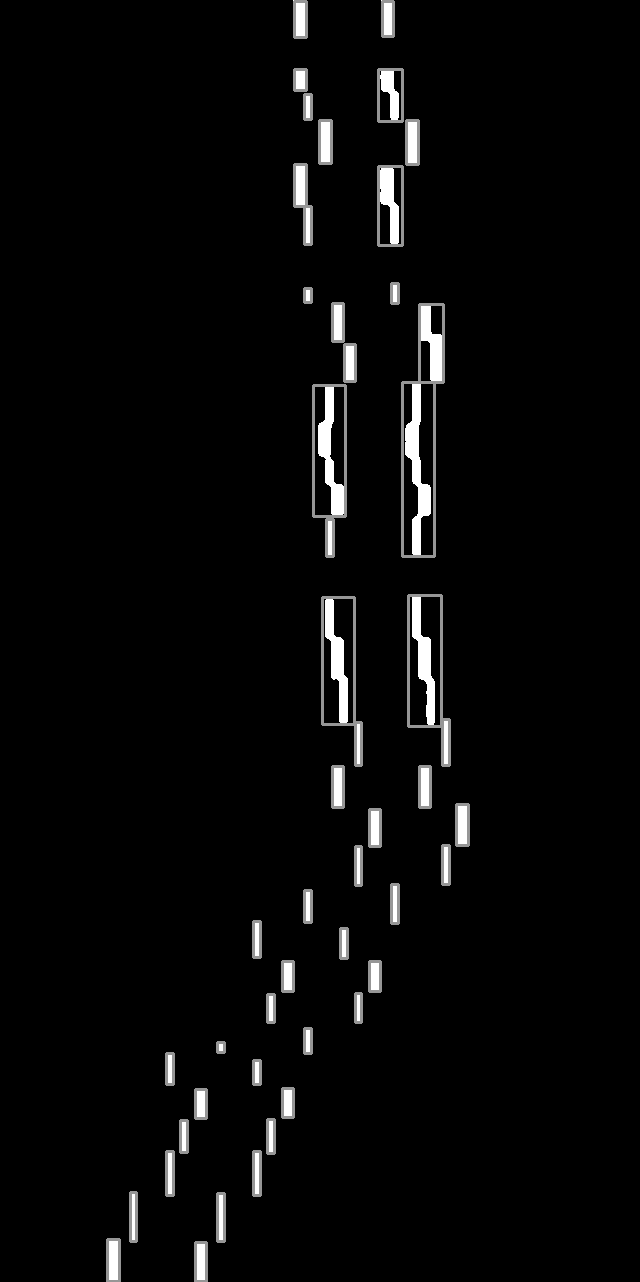
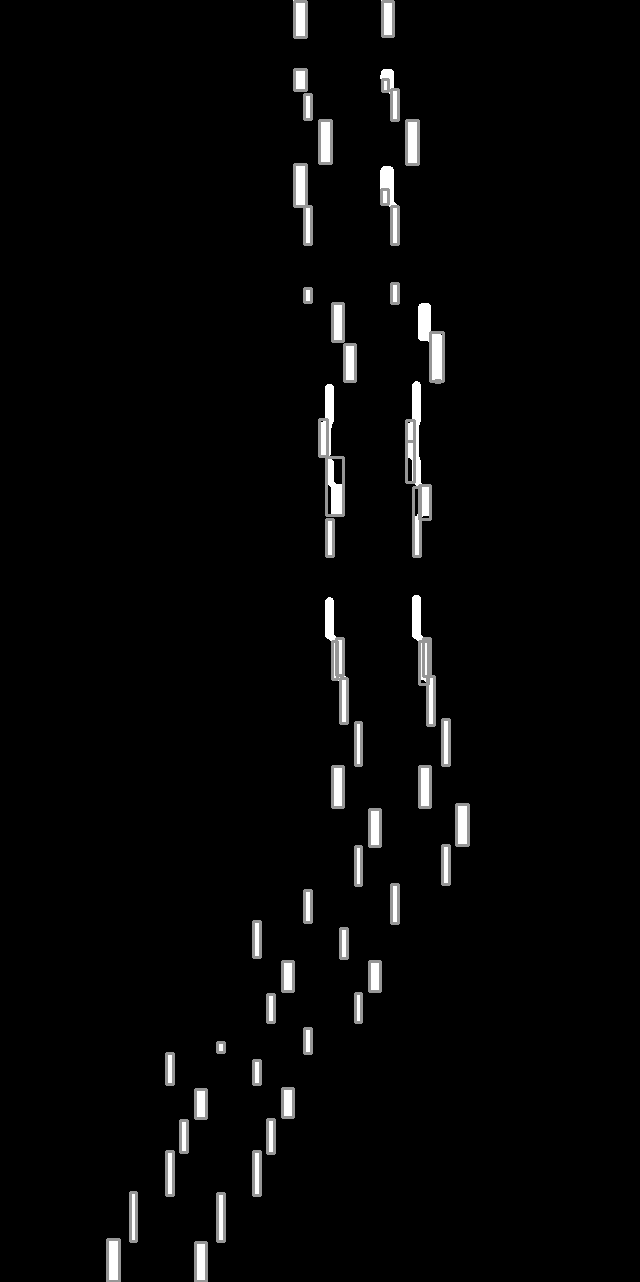
Use of convexity defect detection for merged rectangles

diff --git a/WaterfallProcess.py b/WaterfallProcess.py
@@ -4,6 +4,8 @@ import sys
 import argparse
 import mido
 from mido import Message, MidiFile, MidiTrack
+import random
+
 
 def preprocess_image(image_file):
     """
@@ -45,214 +47,89 @@ def match_area(image, rectangle, outer_rectangle=None):
         black_area = area - white_area
         return white_area, black_area
 
-# This function tries to fit multiple sub-rectangles inside the given rectangle, such that the area covered by the rectangles is at least min_cover_ratio.
-def fit_rectangles(image, rectangle, min_cover_ratio=0.95, max_rectangles=3):
-    # Divide outer_rectangle vertically into num_rectangles parts, of the same width and height
-    def initial_guess(num_rectangles, outer_rectangle):
-        x, y, w, h = outer_rectangle
-        rectangles = []
-        for i in range(num_rectangles):
-            rectangles.append([x, y + i * h // num_rectangles, w, h // num_rectangles])
-        return rectangles
+def separate_contours(image, contour, threshold=10):
+    """
+    Separates merged contours into individual convex contours.
 
-    # Move individual rectangles in the position that maximize the area covered by white pixels.
-    def optimize_position(rectangles, image, outer_rectangle, amplitude=1):
-        combined_area_white, combined_area_black = match_area(image, rectangles, outer_rectangle=rectangle)
-        combined_cover_ratio = combined_area_white / (combined_area_white + combined_area_black)
+    Args:
+    image (np.array): Binary image containing the contours.
+    contour (list): A list of points representing the contour to be separated.
+    threshold (float): Distance threshold for convexity defect points to be considered as separation points.
 
-        for i in range(len(rectangles)):
-            # Process rectangle i
-            x, y, w, h = rectangles[i]
-            position_ratios = [] # Stores the area covered by white pixels for each position, to select the best position.
-            temprect = rectangles.copy()
+    Returns:
+    list: A list of individual convex contours.
+    """
 
-            # Move the rectangle to the left.
-            # Check if the rectangle is still inside the outer rectangle.
-            if x - amplitude >= outer_rectangle[0]:
-                temprect = rectangles.copy()
-                temprect[i] = (x - amplitude, y, w, h)
-                larea_white, larea_black = match_area(image, temprect, outer_rectangle=rectangle)
-                # Avoid division by zero.
-                if larea_white + larea_black == 0:
-                    position_ratios.append(0)
-                else:
-                    position_ratios.append(larea_white / (larea_white + larea_black))
-            else:
-                position_ratios.append(0)
+    # Find convex hull
+    hull = cv2.convexHull(contour, returnPoints=False)
 
-            # Move the rectangle to the right.
-            # Check if the rectangle is still inside the outer rectangle.
-            if x + w + amplitude <= outer_rectangle[0] + outer_rectangle[2]:
-                temprect = rectangles.copy()
-                temprect[i] = (x + amplitude, y, w, h)
-                rarea_white, rarea_black = match_area(image, temprect, outer_rectangle=rectangle)
-                # Avoid division by zero.
-                if rarea_white + rarea_black == 0:
-                    position_ratios.append(0)
-                else:
-                    position_ratios.append(rarea_white / (rarea_white + rarea_black))
-            else:
-                position_ratios.append(0)
+    # Calculate convexity defects
+    defects = cv2.convexityDefects(contour, hull)
 
-            # Move the rectangle up.
-            # Check if the rectangle is still inside the outer rectangle.
-            if y - amplitude >= outer_rectangle[1]:
-                temprect = rectangles.copy()
-                temprect[i] = (x, y - amplitude, w, h)
-                uarea_white, uarea_black = match_area(image, temprect, outer_rectangle=rectangle)
-                # Avoid division by zero.
-                if uarea_white + uarea_black == 0:
-                    position_ratios.append(0)
-                else:
-                    position_ratios.append(uarea_white / (uarea_white + uarea_black))
-            else:
-                position_ratios.append(0)
+    if defects is None:
+        return [contour]
 
-            # Move the rectangle down.
-            # Check if the rectangle is still inside the outer rectangle.
-            if y + h + amplitude <= outer_rectangle[1] + outer_rectangle[3]:
-                temprect = rectangles.copy()
-                temprect[i] = (x, y + amplitude, w, h)
-                darea_white, darea_black = match_area(image, temprect, outer_rectangle=rectangle)
-                # Avoid division by zero.
-                if darea_white + darea_black == 0:
-                    position_ratios.append(0)
-                else:
-                    position_ratios.append(darea_white / (darea_white + darea_black))
-            else:
-                position_ratios.append(0)
+    separation_points = []
 
-            # Find the best position for the rectangle.
-            best_position = np.argmax(position_ratios)
-            # Compare the best position with the current position.
-            if combined_cover_ratio > position_ratios[best_position]:
-                return 
+    for i in range(defects.shape[0]):
+        s, e, f, d = defects[i, 0]
+        if d > threshold:
+            separation_points.append(f)
 
-            # Move the rectangle to the best position.
-            if best_position == 0:
-                rectangles[i] = [x - amplitude, y, w, h]
-            elif best_position == 1:
-                rectangles[i] = [x + amplitude, y, w, h]
-            elif best_position == 2:
-                rectangles[i] = [x, y - amplitude, w, h]
-            elif best_position == 3:
-                rectangles[i] = [x, y + amplitude, w, h]
+    # If no separation points are found, return the original contour
+    if len(separation_points) == 0:
+        return [contour]
 
-    # Change the size of individual rectangles to maximize the area covered by white pixels.
-    def optimize_shape(rectangles, image, outer_rectangle, amplitude=1):
-        combined_area_white, combined_area_black = match_area(image, rectangles, outer_rectangle=outer_rectangle)
-        combined_cover_ratio = combined_area_white / (combined_area_white + combined_area_black)
+    separated_contours = []
+    separation_points.append(separation_points[0])  # Close the loop
 
-        for i in range(len(rectangles)):
-            # Process rectangle i
-            x, y, w, h = rectangles[i]
-            shape_ratios = [] # Stores the area covered by white pixels for each shape, to select the best shape.
-            
+    # Create separate contours based on the separation points
+    for i in range(len(separation_points) - 1):
+        start = separation_points[i]
+        end = separation_points[i + 1]
+        separated_contour = contour[start:end]
+        separated_contours.append(separated_contour)
 
-            # Increase the width of the rectangle.
-            # Check if the rectangle is still inside the outer rectangle.
-            if x + w + amplitude <= outer_rectangle[0] + outer_rectangle[2]:
-                temprect = rectangles.copy()
-                temprect[i] = (x, y, w + amplitude, h)
-                areas_white, areas_black = match_area(image, temprect, outer_rectangle=outer_rectangle)
-                # Avoid division by zero.
-                if areas_white + areas_black == 0:
-                    shape_ratios.append(0)
-                else:
-                    shape_ratios.append(areas_white / (areas_white + areas_black))
-            else:
-                shape_ratios.append(0)
+    return separated_contours
 
-            # Decrease the width of the rectangle.
-            # Check if the rectangle still has a positive width.
-            if w - amplitude > 0:
-                temprect = rectangles.copy()
-                temprect[i] = (x, y, w - amplitude, h)
-                larea_white, larea_black = match_area(image, temprect, outer_rectangle=outer_rectangle)
-                # Avoid division by zero.
-                if larea_white + larea_black == 0:
-                    shape_ratios.append(0)
-                else:
-                    shape_ratios.append(larea_white / (larea_white + larea_black))
-            else:
-                shape_ratios.append(0)
+def subdivide_rectangle(image, contour):
+    """
+    Takes a contour that mistakook multiple keys for a single contour, and subdivides it into the correct note rectangle contours.
+    """
+    bounding_rect = cv2.boundingRect(contour)
 
-            # Increase the height of the rectangle.
-            # Check if the rectangle is still inside the outer rectangle.
-            if y + h + amplitude <= outer_rectangle[1] + outer_rectangle[3]:
-                temprect = rectangles.copy()
-                temprect[i] = (x, y, w, h + amplitude)
-                darea_white, darea_black = match_area(image, temprect, outer_rectangle=outer_rectangle)
-                # Avoid division by zero.
-                if darea_white + darea_black == 0:
-                    shape_ratios.append(0)
-                else:
-                    shape_ratios.append(darea_white / (darea_white + darea_black))
-            else:
-                shape_ratios.append(0)
+    # Use function separate_contours with different threshold values, and keep the result with the best area ratio.
+    best_ratio = 0
+    best_separated_contours = None
 
-            # Decrease the height of the rectangle.
-            # Check if the rectangle still has a positive height.
-            if h - amplitude > 0:
-                temprect = rectangles.copy()
-                temprect[i] = (x, y, w, h - amplitude)
-                uarea_white, uarea_black = match_area(image, temprect, outer_rectangle=outer_rectangle)
-                # Avoid division by zero.
-                if uarea_white + uarea_black == 0:
-                    shape_ratios.append(0)
-                else:
-                    shape_ratios.append(uarea_white / (uarea_white + uarea_black))
-            else:
-                shape_ratios.append(0)
+    for thres in range(1, 100, 1):
+        separated_contours = separate_contours(image, contour, threshold=thres)
 
-            # Find the best shape for the rectangle.
-            best_shape = np.argmax(shape_ratios)
+        # Calculate the area ratio of the separated contours
+        rectangle_list = [cv2.boundingRect(c) for c in separated_contours]
 
-            # Compare the best shape with the current shape.
-            if combined_cover_ratio > shape_ratios[best_shape]:
-                return
+        # Max white area
+        max_white_area, black_area = match_area(image, bounding_rect)
+        aw, ab = match_area(image, rectangle_list, bounding_rect)
+        area_ratio = aw / max_white_area
 
-            # Change the shape of the rectangle to the best shape.
-            if best_shape == 0:
-                rectangles[i] = [x, y, w + amplitude, h]
-            elif best_shape == 1:
-                rectangles[i] = [x, y, w - amplitude, h]
-            elif best_shape == 2:
-                rectangles[i] = [x, y, w, h + amplitude]
-            elif best_shape == 3:
-                rectangles[i] = [x, y, w, h - amplitude]
+        if area_ratio > best_ratio:
+            best_ratio = area_ratio
+            best_separated_contours = separated_contours
 
-    # Calculate max area to be covered by white pixels.
-    ref_white, ref_black = match_area(image, rectangle)
+    # Convert the contours to rectangles
+    rectangle_list = [cv2.boundingRect(c) for c in best_separated_contours]
 
-    for num_rectangles in range(1, max_rectangles + 1):
-        rectangles = initial_guess(num_rectangles, rectangle)
-        for step in range(100):  # Repeat optimization steps 10 times
-            # if step < 20:
-            #     ampl = 10
-            # elif step < 40:
-            #     ampl = 5
-            # elif step < 70:
-            #     ampl = 3
-            # else:
-            ampl = 1
-            
-            optimize_position(rectangles, image, rectangle, amplitude=ampl)
-            optimize_shape(rectangles, image, rectangle, amplitude=ampl)
-            areas_white, areas_black = match_area(image, rectangles, outer_rectangle=rectangle)
-            cover_ratio = areas_white / (areas_white + areas_black)
-            print(rectangles)
-            print(f"Areas white: {areas_white}, Areas black: {areas_black}, Cover ratio: {cover_ratio}")
+    # Keep only the rectangles that are within the bounding rectangle
+    rectangle_list = [r for r in rectangle_list if r[0] >= bounding_rect[0] and r[1] >= bounding_rect[1] and r[0] + r[2] <= bounding_rect[0] + bounding_rect[2] and r[1] + r[3] <= bounding_rect[1] + bounding_rect[3]]
 
-            if cover_ratio >= min_cover_ratio:
-                print(f"Found {num_rectangles} rectangles. with cover ratio {cover_ratio}")
-                return rectangles
-        
-        print(f"Best cover ratio {cover_ratio} found with {num_rectangles} rectangles.")
+    # Keep only the rectangles that are not too thin
+    rectangle_list = [r for r in rectangle_list if r[2] >= 5]
 
-#HACK: REMOVE THIS
-    # return [rectangle]
-    return rectangles
+    print(f"Area ratio: {best_ratio}")
+
+    return rectangle_list
+
 
 def detect_rectangles(image):
     """
@@ -290,7 +167,7 @@ def detect_rectangles(image):
     min_cover_ratio = 0.95
 
     for marker in unique_markers:
-        if marker == 0 or marker == 1:
+        if marker == 0 or marker == 1: # Skip the background and the foreground.
             continue
 
         mask = np.zeros_like(image, dtype=np.uint8)
@@ -301,10 +178,6 @@ def detect_rectangles(image):
         for contour in contours:
             x, y, w, h = cv2.boundingRect(contour)
             if w > 0 and h > 0:
-                
-                # HACK: Remove
-                if len(rectangles) > 4:
-                    break
 
                 rect = (x, y, w, h)
                 white_area, black_area = match_area(image, rect)
@@ -315,12 +188,13 @@ def detect_rectangles(image):
                 if area_coverage_ratio < 0.05:
                     print(f"### Skipping rectangle: {rect}")
                     continue # Likely a rectangle enclosing the entire image.
-                elif area_coverage_ratio < min_cover_ratio: # If the area has less than 98% white pixels, the rectangle probably encloses multiple keys.
-                    # sub_rectangles = fit_rectangles(image, rect, min_cover_ratio, 10)
-                    sub_rectangles = fit_rectangles(image, rect, min_cover_ratio, 2)
-                    sr = [tuple(int(a) for a in r) for r in sub_rectangles]
-                    rectangles = rectangles + sr
-                    print(f"Subrectangles: {sub_rectangles}")
+                elif area_coverage_ratio < min_cover_ratio:
+                    print(f"### Subdividing rectangle: {rect}")
+                    # The rectangle may be covering multiple keys.
+                    # Subdivide the rectangle into multiple rectangles.
+                    rects = subdivide_rectangle(image, contour)
+                    print(f"### Result: {rects}")
+                    rectangles += rects
                 else:
                     rectangles.append(rect)
                     print("Single rectangle.")
@@ -331,7 +205,7 @@ def detect_rectangles(image):
     # To help debugging, write the rectangles on top of the image and save it to a file.
     for rect in rectangles:
         x, y, w, h = rect
-        cv2.rectangle(image, (x, y), (x + w, y + h), (150, 20, 200), 2) # If the color isn't visible, change the values.
+        cv2.rectangle(image, (x, y), (x + w, y + h), (150, 150, 150), 2) # If the color isn't visible, change the values.
     
     cv2.imwrite("debug_rectangles.png", image)
 
